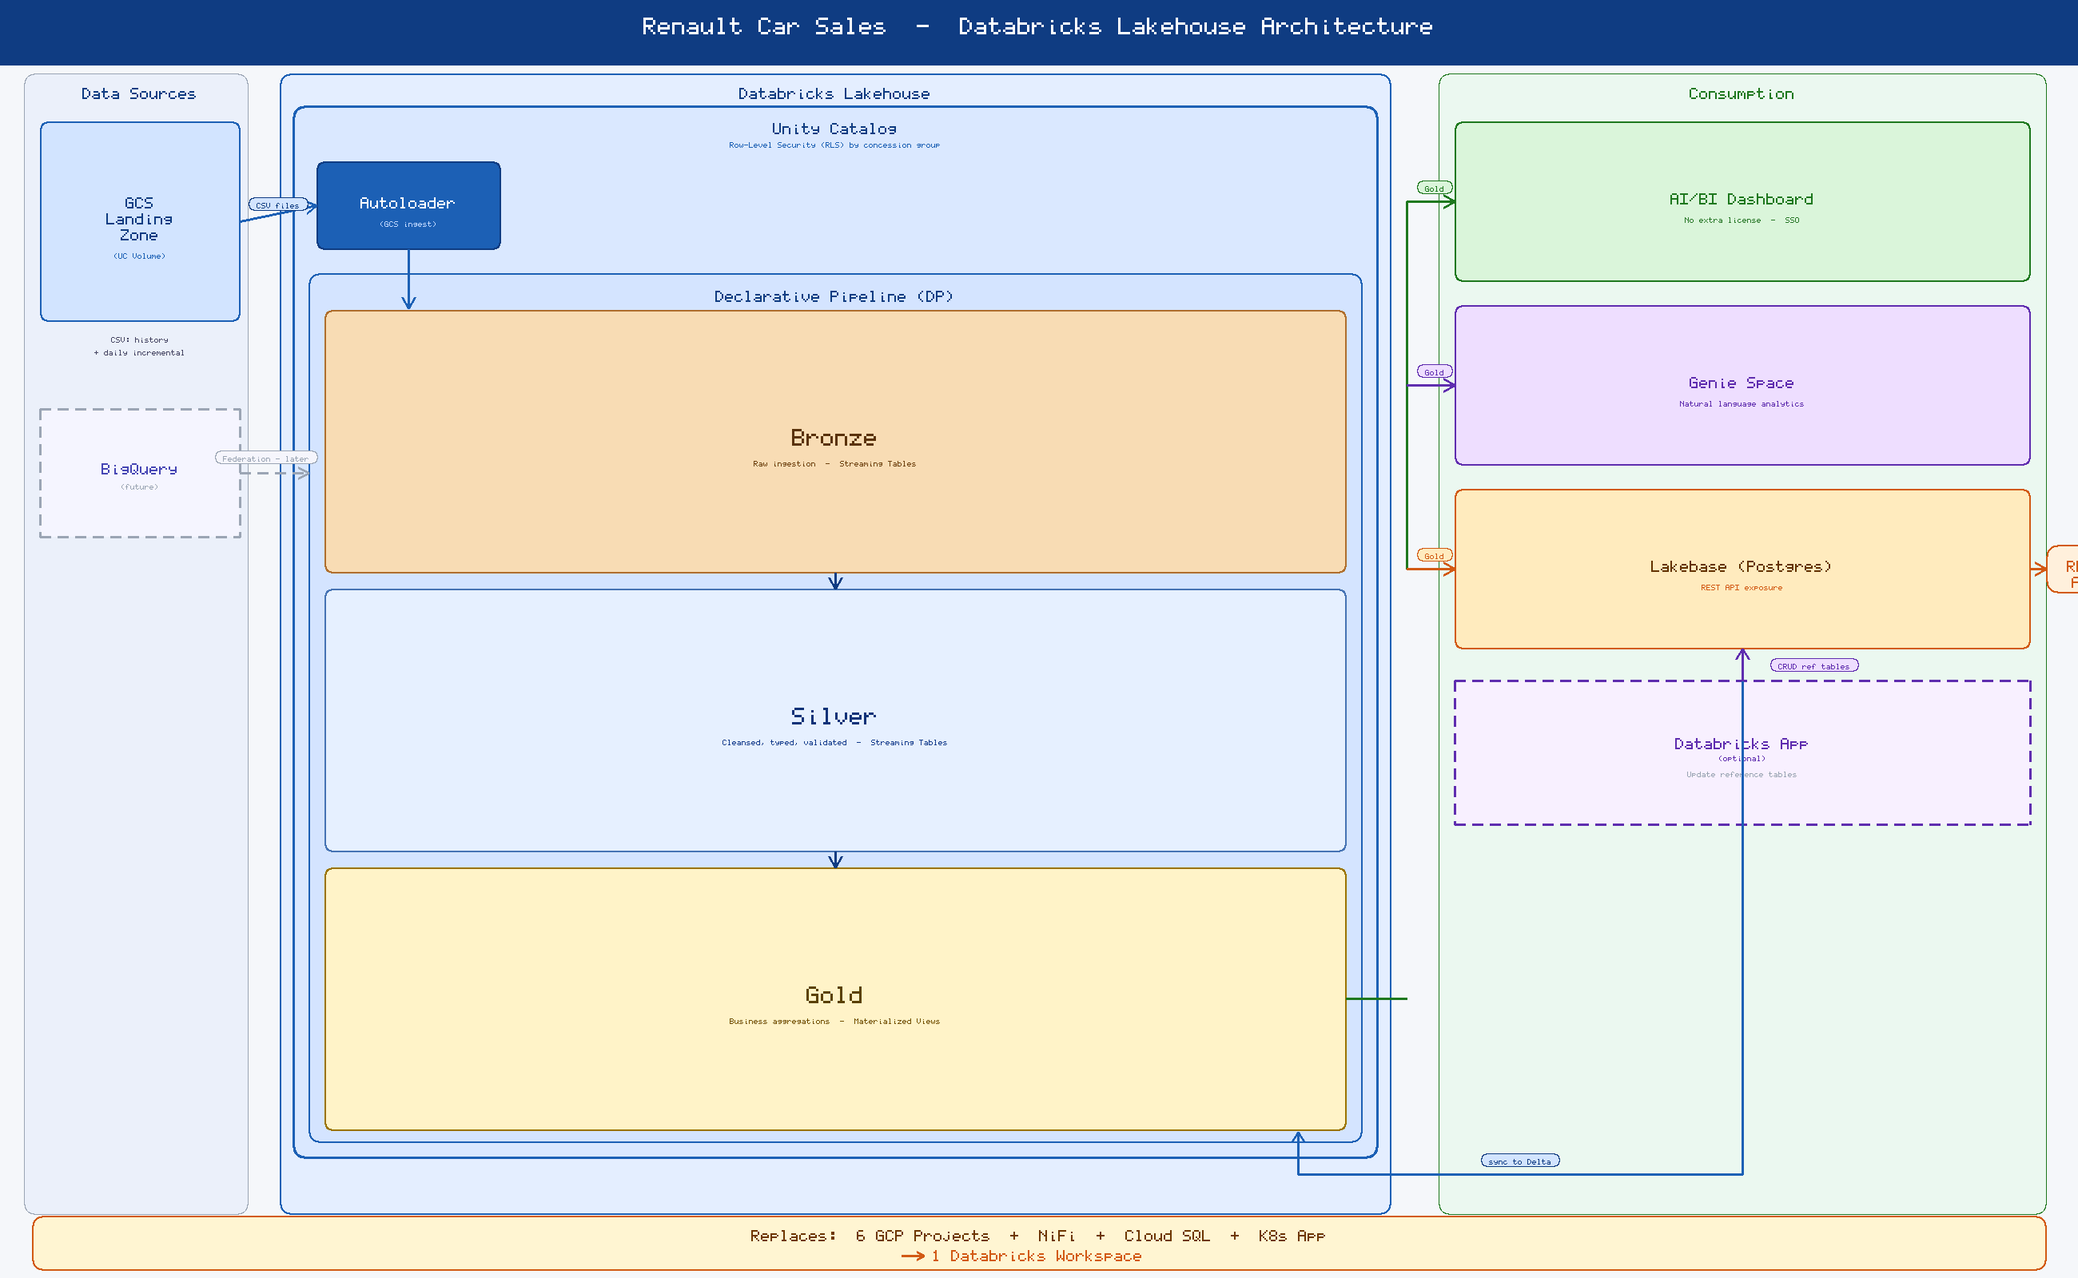
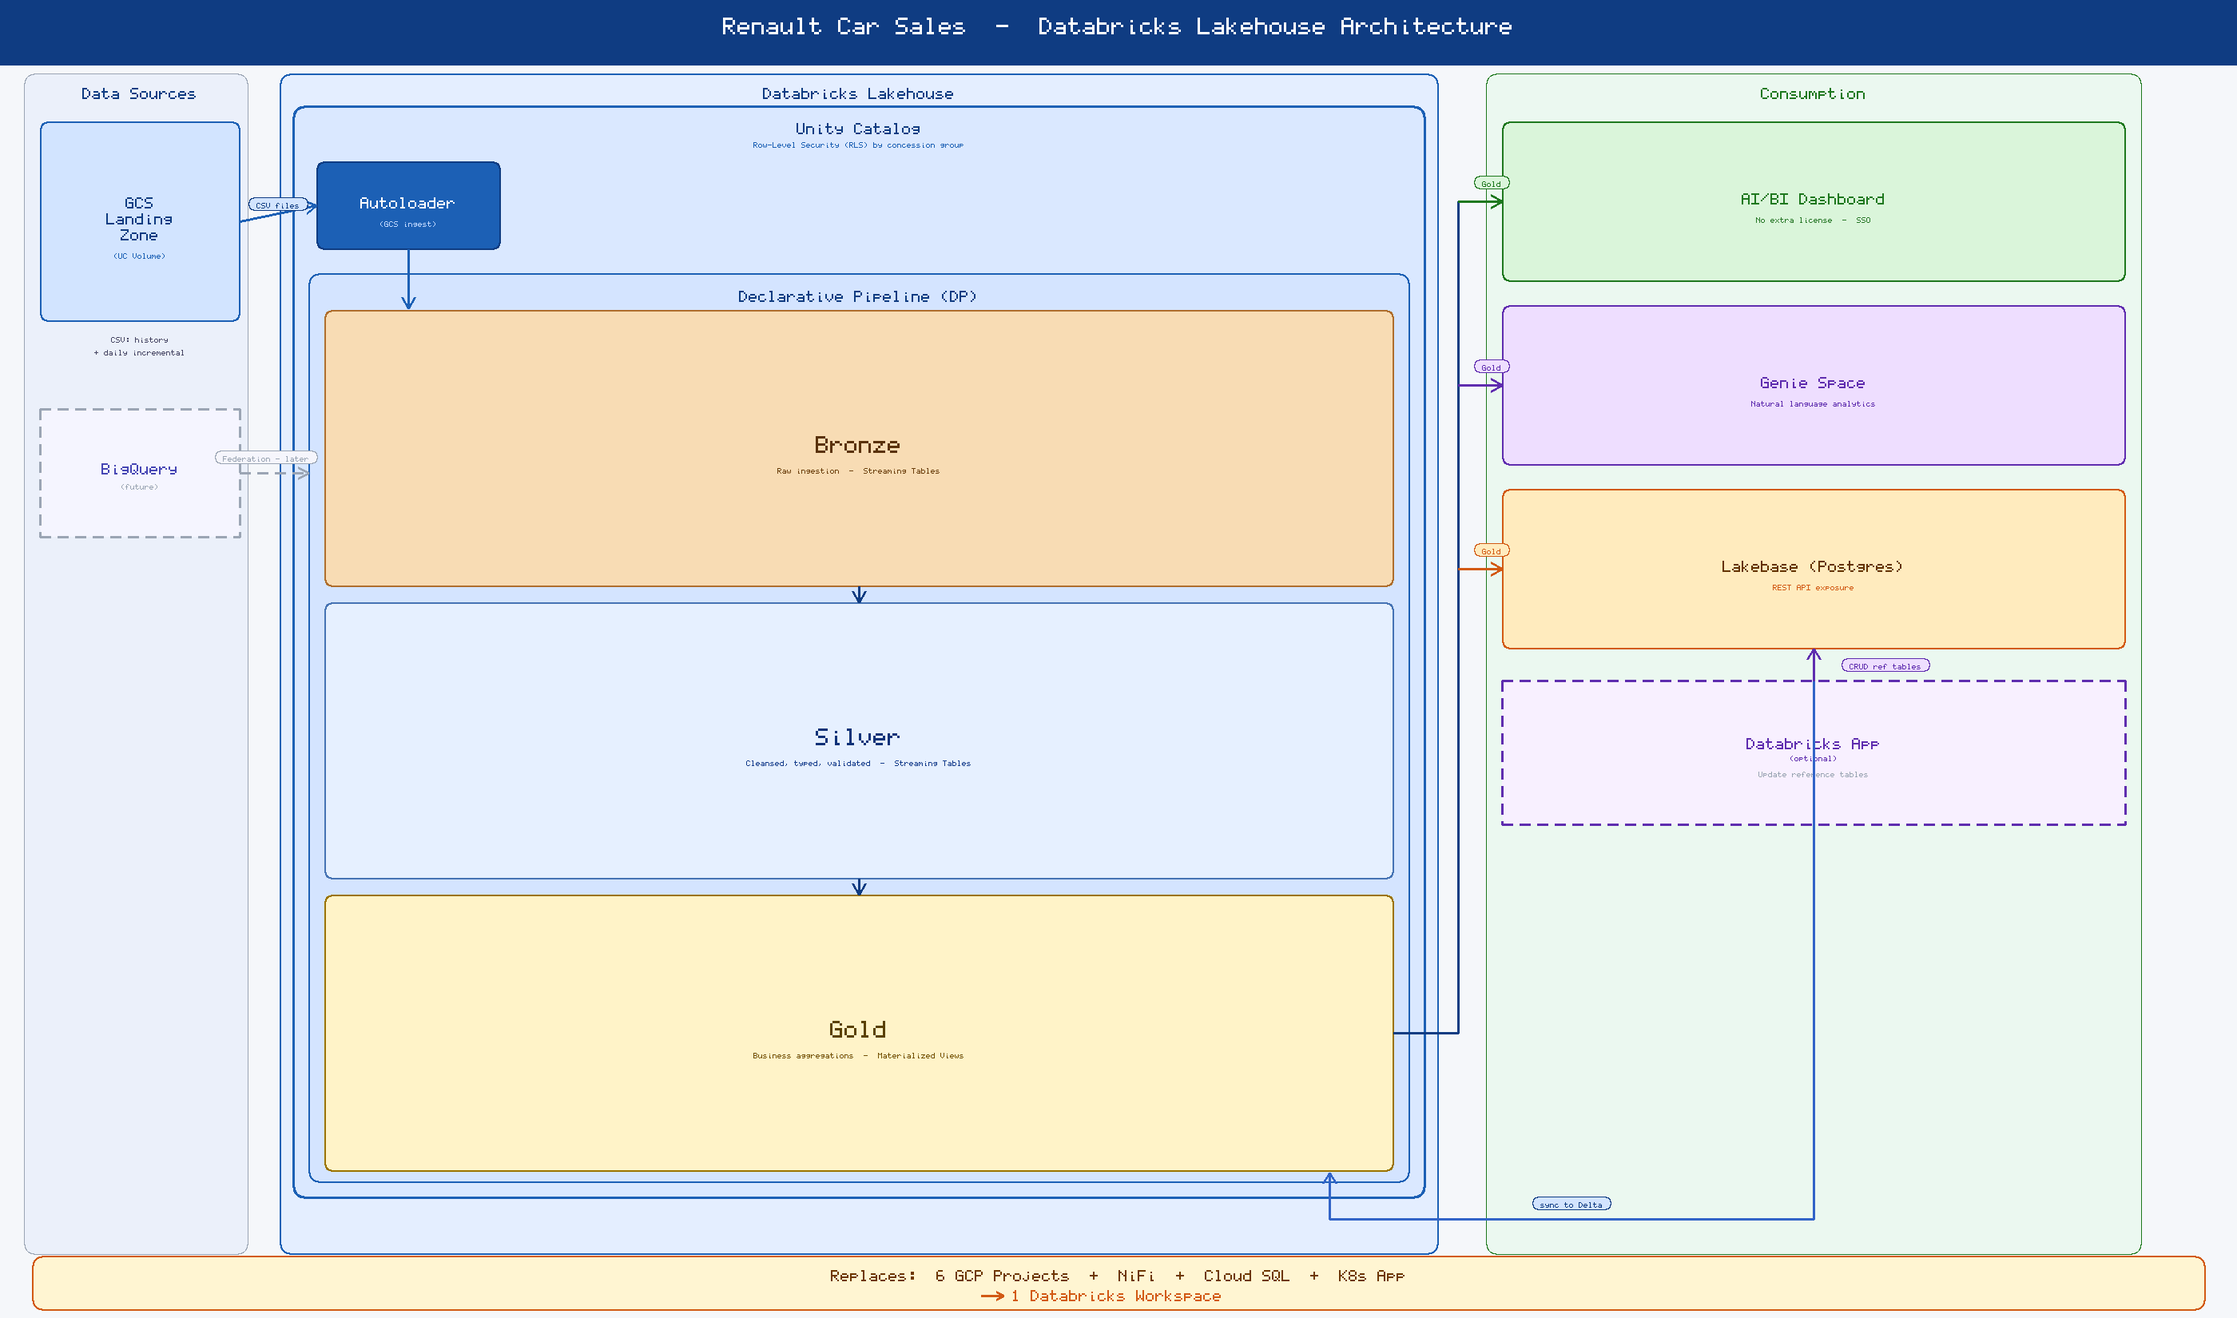
Add Genie space, dashboard deploy, Lakebase back in job
- Create Genie space with French instructions, sample questions, SQL examples
- Add Lakebase task back to setup job
- All verified: daily incremental, dashboard, Genie space all SUCCESS

diff --git a/genie/create_genie_space.py b/genie/create_genie_space.py
@@ -1,0 +1,293 @@
+# Databricks notebook source
+# MAGIC %md
+# MAGIC # Renault Demo — Create Genie Space
+# MAGIC
+# MAGIC Provisions an AI/BI Genie space for natural language car sales analytics.
+# MAGIC
+# MAGIC **Run after** the pipeline has completed at least one run.
+
+# COMMAND ----------
+
+# MAGIC %pip install --upgrade databricks-sdk --quiet
+
+# COMMAND ----------
+
+dbutils.library.restartPython()
+
+# COMMAND ----------
+
+import json
+from databricks.sdk import WorkspaceClient
+
+dbutils.widgets.text("catalog", "renault_demo", "Catalog name")
+CATALOG = dbutils.widgets.get("catalog")
+SCHEMA = "car_sales"
+
+w = WorkspaceClient()
+
+# ─── Find a SQL warehouse ───
+warehouse_id = None
+for wh in w.warehouses.list():
+    if wh.warehouse_type and "PRO" in str(wh.warehouse_type).upper():
+        warehouse_id = wh.id
+        print(f"Using warehouse: {wh.name} ({wh.id})")
+        break
+
+if not warehouse_id:
+    all_wh = list(w.warehouses.list())
+    if all_wh:
+        warehouse_id = all_wh[0].id
+        print(f"Fallback warehouse: {all_wh[0].name} ({warehouse_id})")
+    else:
+        raise Exception("No SQL warehouse found. Create one first.")
+
+# COMMAND ----------
+
+serialized_space = {
+    "version": 2,
+    "config": {
+        "sample_questions": [
+            {"id": "a1000000000000000000000000000001", "question": ["Quel est le top 10 des concessions par chiffre d'affaires ?"]},
+            {"id": "a1000000000000000000000000000002", "question": ["Quelle est la part de véhicules électriques par groupe de concessions ?"]},
+            {"id": "a1000000000000000000000000000003", "question": ["Quel est le modèle le plus vendu ce mois-ci ?"]},
+            {"id": "a1000000000000000000000000000004", "question": ["Classement des groupes par CA et part de neuf"]},
+            {"id": "a1000000000000000000000000000005", "question": ["Quelle est l'évolution des ventes EV par mois ?"]},
+            {"id": "a1000000000000000000000000000006", "question": ["Prix moyen par modèle Renault en occasion ?"]},
+            {"id": "a1000000000000000000000000000007", "question": ["Quelles concessions ont le plus de véhicules neufs ?"]},
+        ]
+    },
+    "data_sources": {
+        "tables": [
+            {
+                "identifier": f"{CATALOG}.{SCHEMA}.listings_detail",
+                "description": [
+                    "Détail de chaque annonce de véhicule avec toutes les dimensions jointes. ",
+                    "Une ligne par véhicule listé. Contient : concession, groupe, marque, modèle, version, ",
+                    "segment, année d'immatriculation, kilométrage, énergie, état, prix, nombre de photos. ",
+                    "Table principale pour les questions détaillées sur les véhicules."
+                ],
+                "column_configs": [
+                    {"column_name": "brand", "enable_format_assistance": True, "enable_entity_matching": True},
+                    {"column_name": "concession_name", "enable_entity_matching": True},
+                    {"column_name": "energy", "enable_format_assistance": True, "enable_entity_matching": True},
+                    {"column_name": "etat", "enable_format_assistance": True, "enable_entity_matching": True},
+                    {"column_name": "group_name", "enable_format_assistance": True, "enable_entity_matching": True},
+                    {"column_name": "model", "enable_format_assistance": True, "enable_entity_matching": True},
+                    {"column_name": "region", "enable_format_assistance": True, "enable_entity_matching": True},
+                    {"column_name": "segment", "enable_format_assistance": True, "enable_entity_matching": True},
+                ]
+            },
+            {
+                "identifier": f"{CATALOG}.{SCHEMA}.concession_daily_kpis",
+                "description": [
+                    "KPIs agrégés par concession et par jour. ",
+                    "Une ligne par concession x jour ouvert. Contient : nombre d'annonces, CA, prix moyen, ",
+                    "mix neuf/occasion, mix énergie (électrique, hybride, thermique), profil véhicule moyen. ",
+                    "Utiliser pour les tendances temporelles et comparaisons entre concessions."
+                ],
+                "column_configs": [
+                    {"column_name": "concession_name", "enable_entity_matching": True},
+                    {"column_name": "group_name", "enable_format_assistance": True, "enable_entity_matching": True},
+                    {"column_name": "region", "enable_format_assistance": True, "enable_entity_matching": True},
+                ]
+            },
+            {
+                "identifier": f"{CATALOG}.{SCHEMA}.group_scorecard",
+                "description": [
+                    "Scorecard par groupe de concessions et par mois. ",
+                    "Contient : classement par CA, volume, part EV. ",
+                    "rank_revenue, rank_volume, rank_ev_share sont les classements mensuels."
+                ],
+                "column_configs": [
+                    {"column_name": "group_name", "enable_format_assistance": True, "enable_entity_matching": True},
+                ]
+            },
+            {
+                "identifier": f"{CATALOG}.{SCHEMA}.model_performance",
+                "description": [
+                    "Performance par modèle et par mois. ",
+                    "Une ligne par marque x modèle x version x mois. ",
+                    "Contient : volume, CA, prix moyen/médian, part EV, part neuf."
+                ],
+                "column_configs": [
+                    {"column_name": "brand", "enable_format_assistance": True, "enable_entity_matching": True},
+                    {"column_name": "model", "enable_format_assistance": True, "enable_entity_matching": True},
+                    {"column_name": "segment", "enable_format_assistance": True, "enable_entity_matching": True},
+                ]
+            }
+        ]
+    },
+    "instructions": {
+        "text_instructions": [
+            {
+                "id": "01f0b37c378e1c9100000000000000a1",
+                "content": [
+                    "Tu es un assistant analytics pour le réseau de concessions Renault en France. ",
+                    "DONNÉES : ventes de véhicules neufs et d'occasion (Renault, Dacia, Alpine). ",
+                    "TABLES DISPONIBLES : ",
+                    "1) listings_detail : détail annonce (véhicule, prix, km, état, énergie, concession, groupe). ",
+                    "2) concession_daily_kpis : KPIs par concession x jour (volume, CA, mix énergie/neuf). ",
+                    "3) group_scorecard : classement mensuel des groupes de concessions. ",
+                    "4) model_performance : performance par modèle x mois. ",
+                    "SYNONYMES : 'CA' = chiffre d'affaires = total_revenue. 'VE' = 'EV' = véhicule électrique. ",
+                    "'VO' = véhicule d'occasion = etat != 'Neuf'. 'VN' = véhicule neuf = etat = 'Neuf'. ",
+                    "'concessionnaire' = concession. 'groupe' = group_name. ",
+                    "SEGMENTS : B = citadine, C = compacte, D = berline, SUV = SUV, EV = électrique, VU = utilitaire. ",
+                    "MARQUES : Renault (majoritaire), Dacia (entrée de gamme), Alpine (sport/premium). ",
+                    "GROUPES : Bernard, Gueudet, Jean Lain, Bodemer, Dubreuil, Mary, Parot, Claro. ",
+                    "Réponds toujours en français."
+                ]
+            }
+        ],
+        "example_question_sqls": [
+            {
+                "id": "01f0821116d912db00000000000001b1",
+                "question": ["Top 10 concessions par CA"],
+                "sql": [
+                    f"SELECT concession_name, region, group_name, ",
+                    f"  SUM(total_revenue) AS ca, ",
+                    f"  SUM(nb_listings) AS nb_annonces, ",
+                    f"  ROUND(SUM(total_revenue) / NULLIF(SUM(nb_listings), 0), 0) AS prix_moyen ",
+                    f"FROM {CATALOG}.{SCHEMA}.concession_daily_kpis ",
+                    f"GROUP BY concession_name, region, group_name ",
+                    f"ORDER BY ca DESC LIMIT 10"
+                ]
+            },
+            {
+                "id": "01f0821116d912db00000000000002b2",
+                "question": ["Part de véhicules électriques par groupe"],
+                "sql": [
+                    f"SELECT group_name, ",
+                    f"  SUM(nb_listings) AS total, ",
+                    f"  SUM(nb_ev) AS nb_ev, ",
+                    f"  ROUND(SUM(nb_ev) * 100.0 / NULLIF(SUM(nb_listings), 0), 1) AS part_ev_pct ",
+                    f"FROM {CATALOG}.{SCHEMA}.group_scorecard ",
+                    f"GROUP BY group_name ",
+                    f"ORDER BY part_ev_pct DESC"
+                ]
+            },
+            {
+                "id": "01f0821116d912db00000000000003b3",
+                "question": ["Modèles les plus vendus"],
+                "sql": [
+                    f"SELECT brand, model, version, segment, ",
+                    f"  SUM(nb_listings) AS nb_annonces, ",
+                    f"  SUM(total_revenue) AS ca, ",
+                    f"  ROUND(AVG(avg_price), 0) AS prix_moyen ",
+                    f"FROM {CATALOG}.{SCHEMA}.model_performance ",
+                    f"GROUP BY brand, model, version, segment ",
+                    f"ORDER BY nb_annonces DESC LIMIT 10"
+                ]
+            },
+            {
+                "id": "01f0821116d912db00000000000004b4",
+                "question": ["Prix moyen des Clio d'occasion par année d'immatriculation"],
+                "sql": [
+                    f"SELECT year_immat, ",
+                    f"  COUNT(*) AS nb, ",
+                    f"  ROUND(AVG(price), 0) AS prix_moyen, ",
+                    f"  ROUND(AVG(km), 0) AS km_moyen ",
+                    f"FROM {CATALOG}.{SCHEMA}.listings_detail ",
+                    f"WHERE model = 'Clio' AND etat != 'Neuf' ",
+                    f"GROUP BY year_immat ",
+                    f"ORDER BY year_immat DESC"
+                ]
+            },
+            {
+                "id": "01f0821116d912db00000000000005b5",
+                "question": ["Évolution mensuelle des ventes EV"],
+                "sql": [
+                    f"SELECT year, month, ",
+                    f"  SUM(nb_electrique) AS nb_ev, ",
+                    f"  SUM(nb_listings) AS total, ",
+                    f"  ROUND(SUM(nb_electrique) * 100.0 / NULLIF(SUM(nb_listings), 0), 1) AS part_ev_pct ",
+                    f"FROM {CATALOG}.{SCHEMA}.concession_daily_kpis ",
+                    f"GROUP BY year, month ",
+                    f"ORDER BY year, month"
+                ]
+            }
+        ],
+        "sql_snippets": {
+            "filters": [
+                {"id": "01f09972e66d100000000000000001d1", "sql": ["etat = 'Neuf'"], "display_name": "véhicules neufs uniquement", "synonyms": ["VN", "neuf", "neufs"]},
+                {"id": "01f09972e66d100000000000000002d2", "sql": ["etat != 'Neuf'"], "display_name": "occasions uniquement", "synonyms": ["VO", "occasion", "occasions"]},
+                {"id": "01f09972e66d100000000000000003d3", "sql": ["energy = 'Électrique'"], "display_name": "électriques uniquement", "synonyms": ["EV", "VE", "électrique"]},
+                {"id": "01f09972e66d100000000000000004d4", "sql": ["brand = 'Renault'"], "display_name": "Renault uniquement", "synonyms": ["Renault"]},
+                {"id": "01f09972e66d100000000000000005d5", "sql": ["brand = 'Dacia'"], "display_name": "Dacia uniquement", "synonyms": ["Dacia"]},
+            ],
+            "measures": [
+                {"id": "01f09972611f100000000000000001f1", "alias": "ca_total", "sql": ["SUM(total_revenue)"], "display_name": "CA total", "synonyms": ["chiffre d'affaires", "CA", "revenue"]},
+                {"id": "01f09972611f100000000000000002f2", "alias": "prix_moyen", "sql": ["ROUND(AVG(price), 0)"], "display_name": "prix moyen", "synonyms": ["prix moyen", "average price"]},
+            ]
+        }
+    },
+    "benchmarks": {
+        "questions": [
+            {
+                "id": "01f0d0b4e81510000000000000000ae1",
+                "question": ["Quel groupe a la meilleure part EV ?"],
+                "answer": [{"format": "SQL", "content": [
+                    f"SELECT group_name, ",
+                    f"  ROUND(SUM(nb_ev) * 100.0 / NULLIF(SUM(nb_listings), 0), 1) AS part_ev_pct ",
+                    f"FROM {CATALOG}.{SCHEMA}.group_scorecard ",
+                    f"GROUP BY group_name ",
+                    f"ORDER BY part_ev_pct DESC LIMIT 1"
+                ]}]
+            },
+            {
+                "id": "01f0d0b4e81510000000000000000ae2",
+                "question": ["Top 3 modèles par CA"],
+                "answer": [{"format": "SQL", "content": [
+                    f"SELECT brand, model, version, SUM(total_revenue) AS ca ",
+                    f"FROM {CATALOG}.{SCHEMA}.model_performance ",
+                    f"GROUP BY brand, model, version ",
+                    f"ORDER BY ca DESC LIMIT 3"
+                ]}]
+            }
+        ]
+    }
+}
+
+# Sort per Databricks validation rules
+def sort_genie_space(space):
+    if "config" in space and "sample_questions" in space["config"]:
+        space["config"]["sample_questions"].sort(key=lambda x: x["id"])
+    if "data_sources" in space:
+        if "tables" in space["data_sources"]:
+            space["data_sources"]["tables"].sort(key=lambda x: x["identifier"])
+            for table in space["data_sources"]["tables"]:
+                if "column_configs" in table:
+                    table["column_configs"].sort(key=lambda x: x["column_name"])
+    if "instructions" in space:
+        instr = space["instructions"]
+        for key in ["text_instructions", "example_question_sqls"]:
+            if key in instr:
+                instr[key].sort(key=lambda x: x["id"])
+        if "sql_snippets" in instr:
+            for key in ["filters", "measures"]:
+                if key in instr["sql_snippets"]:
+                    instr["sql_snippets"][key].sort(key=lambda x: x["id"])
+    if "benchmarks" in space and "questions" in space["benchmarks"]:
+        space["benchmarks"]["questions"].sort(key=lambda x: x["id"])
+    return space
+
+serialized_space = sort_genie_space(serialized_space)
+
+# COMMAND ----------
+
+try:
+    space = w.genie.create_space(
+        warehouse_id=warehouse_id,
+        title="Renault - Ventes Automobiles",
+        description="Analytics ventes automobiles du réseau Renault/Dacia/Alpine. Volumes, CA, mix énergie, performance modèles, classement groupes de concessions.",
+        serialized_space=json.dumps(serialized_space),
+        parent_path=f"/Workspace/Users/{spark.sql('SELECT current_user()').collect()[0][0]}"
+    )
+    print(f"Genie space created!")
+    print(f"  Space ID: {space.space_id}")
+    print(f"  Title: {space.title}")
+    print(f"  URL: Open your workspace and navigate to AI/BI Genie -> '{space.title}'")
+except Exception as e:
+    print(f"Genie space creation failed:\n   {e}")
+    print(f"\nSerialized space JSON (for manual creation):")
+    print(json.dumps(serialized_space, indent=2, ensure_ascii=False))

diff --git a/gen_diagram.py b/gen_diagram.py
@@ -452,18 +452,20 @@ LB_MID_Y   = (LB_Y1+LB_Y2)//2
 # Horizontal line from Gold right edge to trunk
 draw_line(LX2, GOLD_MID_Y, TRUNK_X, GOLD_MID_Y, DB_BLUE_DARK, 3)
 
-# Vertical trunk covering all consumption targets
-draw_line(TRUNK_X, AIBI_MID_Y, TRUNK_X, LB_MID_Y, DB_BLUE_DARK, 3)
+# Vertical trunk: from Gold level up to AIBI and down to LB
+TOP_TRUNK = min(AIBI_MID_Y, GOLD_MID_Y)
+BOT_TRUNK = max(LB_MID_Y,   GOLD_MID_Y)
+draw_line(TRUNK_X, TOP_TRUNK, TRUNK_X, BOT_TRUNK, DB_BLUE_DARK, 3)
 
 # Arrows from trunk to each consumption box
-draw_arrow(TRUNK_X, AIBI_MID_Y, CON_X1+CON_PAD, AIBI_MID_Y, GREEN_DARK, 3)
+draw_arrow(TRUNK_X, AIBI_MID_Y, CON_X1+CON_PAD, AIBI_MID_Y, GREEN_DARK,  3)
 draw_arrow(TRUNK_X, GEN_MID_Y,  CON_X1+CON_PAD, GEN_MID_Y,  PURPLE_DARK, 3)
-draw_arrow(TRUNK_X, LB_MID_Y,   CON_X1+CON_PAD, LB_MID_Y,   DB_ORANGE, 3)
+draw_arrow(TRUNK_X, LB_MID_Y,   CON_X1+CON_PAD, LB_MID_Y,   DB_ORANGE,   3)
 
 # pill labels on each branch
-pill_label("Gold", TRUNK_X+38, AIBI_MID_Y-22, GREEN_DARK,   GREEN_BG,     scale=1)
-pill_label("Gold", TRUNK_X+38, GEN_MID_Y -22, PURPLE_DARK,  PURPLE_BG,    scale=1)
-pill_label("Gold", TRUNK_X+38, LB_MID_Y  -22, DB_ORANGE,    ORANGE_LIGHT, scale=1)
+pill_label("Gold", TRUNK_X+42, AIBI_MID_Y-24, GREEN_DARK,   GREEN_BG,     scale=1)
+pill_label("Gold", TRUNK_X+42, GEN_MID_Y -24, PURPLE_DARK,  PURPLE_BG,    scale=1)
+pill_label("Gold", TRUNK_X+42, LB_MID_Y  -24, DB_ORANGE,    ORANGE_LIGHT, scale=1)
 
 # Sync back: Lakebase → sync to Delta → Unity Catalog
 # Route: down from Lakebase bottom, left at SYNC_Y level, up into the DP Gold right edge
